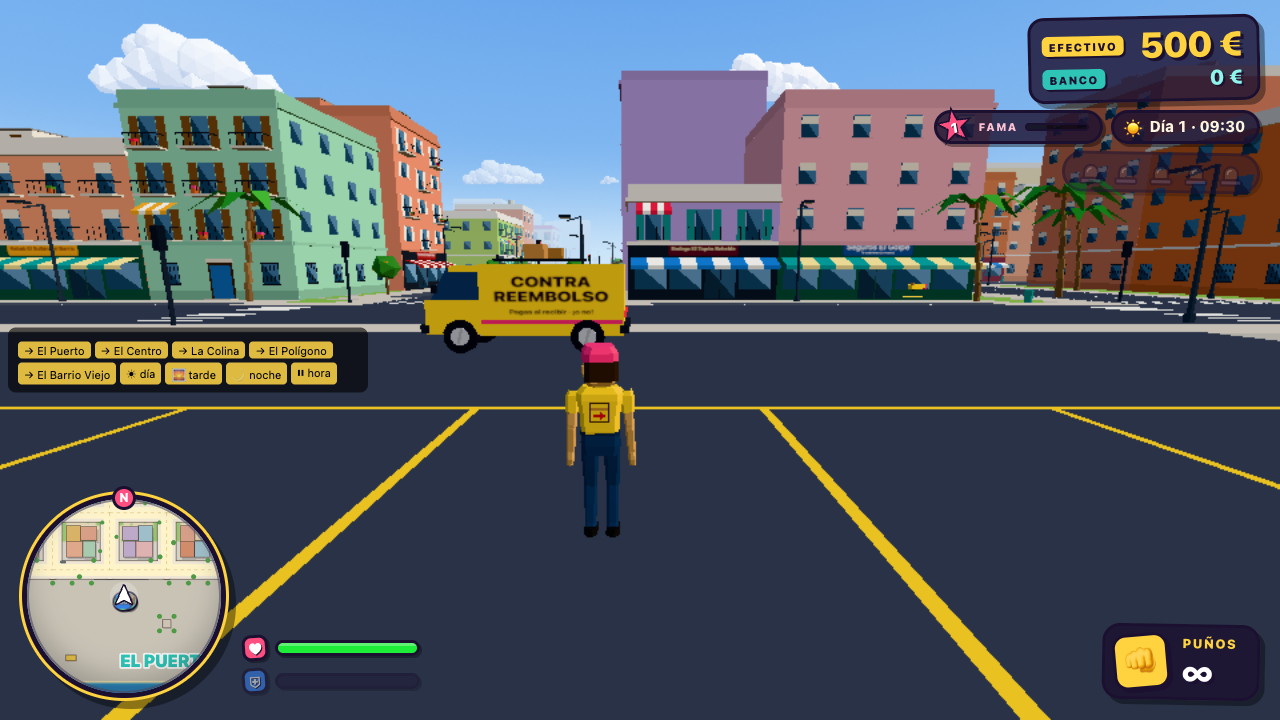
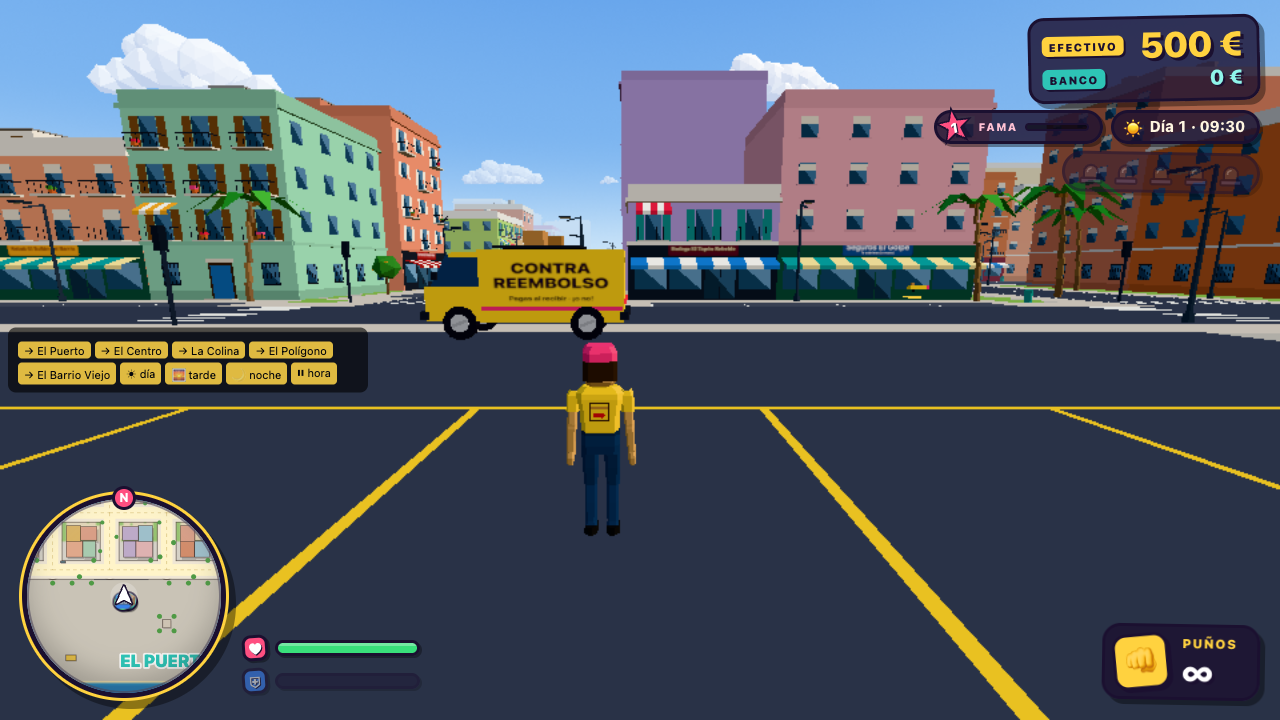
Fase 5 publicada: menús, creación de personaje, tiendas, empresa, fama, guardado y tutorial

diff --git a/tests/juego.spec.ts b/tests/juego.spec.ts
@@ -129,6 +129,37 @@ test('abrir el móvil y aceptar un encargo', async ({ page }) => {
   expect(errors).toEqual([]);
 });
 
+test('menú principal y creación del repartidor', async ({ page }) => {
+  test.skip(FASE < 5, 'los menús llegan en la fase 5');
+  const errors: string[] = [];
+  page.on('pageerror', (e) => errors.push(String(e)));
+  await page.goto(`./?calidad=baja&fase=${FASE}`);
+  await page.waitForFunction(() => (window as any).__ready === true, null, { timeout: 120_000 });
+  await page.waitForTimeout(1500);
+  await page.screenshot({ path: `${DIR}/07-menu.png` });
+  await page.getByText('Nueva partida').click();
+  await page.waitForTimeout(1500);
+  await page.screenshot({ path: `${DIR}/08-creacion.png` });
+  await page.getByText('¡A repartir!').click();
+  await page.waitForFunction(() => (window as any).__cr.mod.menus.mode === 'play', null, { timeout: 20_000 });
+  expect(errors).toEqual([]);
+});
+
+test('tiendas: armería, ropa, taller y empresa', async ({ page }) => {
+  test.skip(FASE < 5, 'las tiendas llegan en la fase 5');
+  const errors = await arrancar(page);
+  for (const [kind, file] of [['gunshop', '09-armeria'], ['clothes', '10-ropa'], ['garage', '11-taller'], ['office', '12-empresa']]) {
+    await g(page, `__cr.mod.player.teleport(__cr.world.pois.find(p => p.kind === '${kind}').door.clone())`);
+    await page.waitForFunction(() => !!(window as any).__cr.mod.interaction.current, null, { timeout: 15_000 });
+    await page.keyboard.press('KeyE');
+    await page.waitForFunction(() => (window as any).__cr.mod.shopUI.isOpen, null, { timeout: 15_000 });
+    await page.screenshot({ path: `${DIR}/${file}.png` });
+    await page.keyboard.press('Escape');
+    await page.waitForFunction(() => !(window as any).__cr.mod.shopUI.isOpen, null, { timeout: 15_000 });
+  }
+  expect(errors).toEqual([]);
+});
+
 test('fps con ?debug=1', async ({ page }) => {
   const errors = await arrancar(page);
   await page.waitForTimeout(4000);

diff --git a/src/ui/menus.ts b/src/ui/menus.ts
@@ -55,7 +55,7 @@ const CSS = `
 .cr-tabla{border-collapse:collapse;width:100%;font:700 15px system-ui}
 .cr-tabla td{padding:7px 10px;border-bottom:2px dashed rgba(27,16,48,.2)}
 .cr-tabla td:first-child{white-space:nowrap}
-.cr-tecla{display:inline-block;min-width:26px;text-align:center;background:#1b1030;color:#ffd23f;border-radius:8px;padding:3px 8px;font:900 14px system-ui;margin:1px}
+.cr-tecla-menu{display:inline-block;min-width:26px;text-align:center;background:#1b1030;color:#ffd23f;border-radius:8px;padding:3px 8px;font:900 14px system-ui;margin:1px}
 .cr-cerrar{position:absolute;top:12px;right:14px;border:3px solid #1b1030;border-radius:12px;background:#ff4f81;color:#fff;font:900 18px system-ui;width:40px;height:40px;cursor:pointer}
 .cr-creacion{position:absolute;right:clamp(16px,5vw,80px);top:50%;transform:translateY(-50%);width:min(430px,calc(100vw - 32px))}
 .cr-nombre{font:800 20px system-ui;border:3px solid #1b1030;border-radius:12px;padding:8px 12px;width:100%;box-sizing:border-box}
@@ -405,7 +405,7 @@ export class Menus implements System {
     this.back = onBack;
     const panel = document.createElement('div');
     panel.className = 'cr-panel';
-    const k = (t: string) => t.split(' ').map((x) => `<span class="cr-tecla">${x}</span>`).join(' ');
+    const k = (t: string) => t.split(' ').map((x) => `<span class="cr-tecla-menu">${x}</span>`).join(' ');
     const rows: [string, string][] = [
       ['W A S D', 'Moverse / conducir'], ['Ratón', 'Cámara (haz clic para capturarlo)'], ['Shift', 'Correr / turbo del vehículo'],
       ['Espacio', 'Saltar / freno de mano (derrape)'], ['Clic izq.', 'Disparar'], ['Clic der.', 'Apuntar (cámara al hombro)'],

diff --git a/src/main.ts b/src/main.ts
@@ -15,7 +15,7 @@ import { registerSaveSections } from './gameplay/saveSections';
 import type { WorldData } from './core/contracts';
 
 /** Fase publicada: los sistemas de fases posteriores no se activan todavía. */
-export const FASE = 4;
+export const FASE = 5;
 
 async function boot() {
   const loading = new LoadingScreen();
@@ -78,6 +78,9 @@ async function boot() {
   if (fase >= 5 && !prueba) {
     const menus = new Menus(game);
     game.addSystem(menus);
+    // en el menú no llegan encargos ni persecuciones
+    if (game.mod.jobs) game.mod.jobs.autoOffers = false;
+    if (game.mod.gang) game.mod.gang.calm = true;
     menus.onNewGame = (p) => {
       SaveSystem.wipe();
       setProfile(p);
@@ -89,6 +92,8 @@ async function boot() {
     menus.onContinue = () => {
       game.mod.save?.readFromStorage();
       menus.play();
+      if (game.mod.jobs) game.mod.jobs.autoOffers = true;
+      if (game.mod.gang) game.mod.gang.calm = false;
       game.events.emit('toast', { text: `¡Hola otra vez, ${profile.name}!`, color: '#ffd23f', time: 2.5 });
     };
     menus.showMain();

diff --git a/src/ai/traffic.ts b/src/ai/traffic.ts
@@ -77,10 +77,13 @@ export class Traffic implements System {
   /** Coche aparcado sin conductor. */
   spawnParked(): void {
     const w = this.game.world;
-    const cam = this.game.camera.position;
+    // alrededor del jugador (no de la cámara: en el menú la cámara está lejos), nunca pegado a él
+    const focus = this.game.mod.player?.position ?? this.game.camera.position;
+    const office = w.pois.find((p) => p.kind === 'office');
     const spots = w.parkingSpots.filter((s) => {
-      const d = s.pos.distanceTo(cam);
-      return d > 50 && d < 140;
+      const d = s.pos.distanceTo(focus);
+      if (office && s.pos.distanceTo(office.door) < 18) return false;
+      return d > 45 && d < 140;
     });
     if (!spots.length) return;
     const s = spots[Math.floor(rnd.next() * spots.length)];

diff --git a/PROGRESO.md b/PROGRESO.md
@@ -4,7 +4,17 @@ Enlace: https://agarroda-bit.github.io/contra-reembolso/
 
 Si pierdes el contexto: relee `ENCARGO.md`, este archivo y `DECISIONES.md`, y sigue.
 
-## Fase actual: 5 — Tiendas y progreso (integrando)
+## Fase actual: 6 — La vida de lujo (integrando)
+
+## Fase 5 — Tiendas y progreso ✅ (26/09, 07:25, publicada)
+- Menú principal con la isla de fondo (Continuar / Nueva partida / Opciones / Controles), creación del repartidor (nombre, piel, peinado, color de pelo, uniforme, gorra) con vista previa girando, pausa (Esc) y opciones (sensibilidad, invertir eje, volúmenes, calidad baja/media/alta, campo de visión).
+- Tiendas físicas (E en la puerta): Talleres Manolo (concesionario de 6 vehículos, mejoras de motor/frenos/blindaje/neumáticos/maletero/nitro, reparación y pintura), Armería El Gatillo Alegre (armas, munición, chaleco, botiquín), Moda Paquetona (uniformes, gorras, gafas, cadena, zapatillas, chándal: se ve en el personaje).
+- Tu empresa (E en la oficina): ampliar la oficina por niveles (se ve fuera: cartel luminoso, estanterías, furgonetas aparcadas), comprar furgonetas para la flota, contratar repartidores que ingresan dinero cada día (y a veces piden ayuda por el móvil porque los asalta la banda), lujos de oficina.
+- FAMA por niveles: sube con entregas perfectas, compras y lujos; desbloquea tiendas, vehículos y la historia.
+- Garaje en el móvil: tus vehículos comprados te los traen a la calle más cercana.
+- Guardado automático cada 45 s y al salir (dinero, banco, fama, armas, vehículos y mejoras, ropa, empresa, historia, coleccionables).
+- Tutorial suave: Don Remigio te guía por el móvil (moverse, subir a la furgoneta, aceptar el primer encargo, recoger, entregar, ingresar en el cajero).
+- Pruebas: + menú y creación, + las cuatro tiendas (`capturas/fase-5/`), + guardar y continuar (`herramientas/prueba-guardado.mjs`).
 
 ## Fase 4 — Encargos y dinero ✅ (26/09, 07:10, publicada)
 - Móvil «Pomelo» (Tab) con la app de mensajería inventada «PaqueChat»: van llegando encargos de clientes con qué quieren, dónde, cuánto pagan y el tiempo; se aceptan con un botón o Enter. Apps de Banco, Fama y Ayuda.
